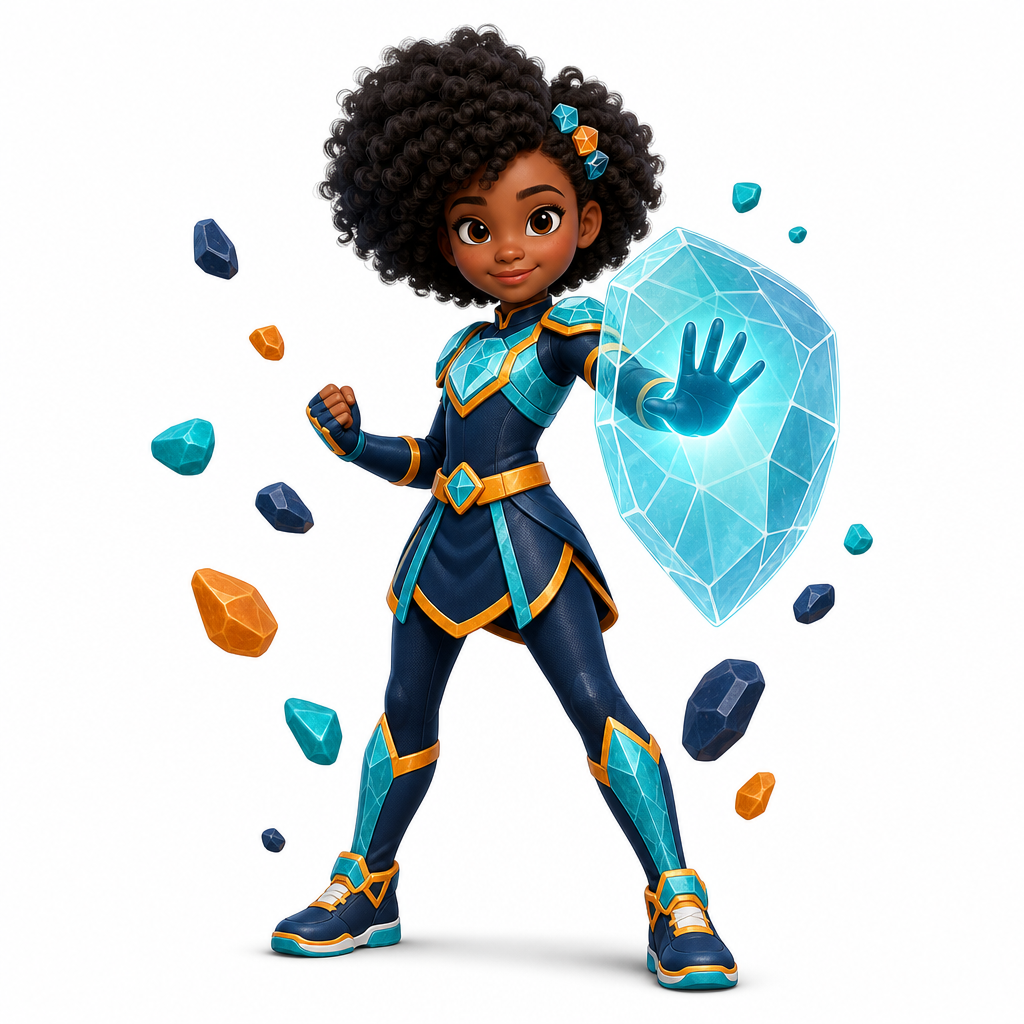
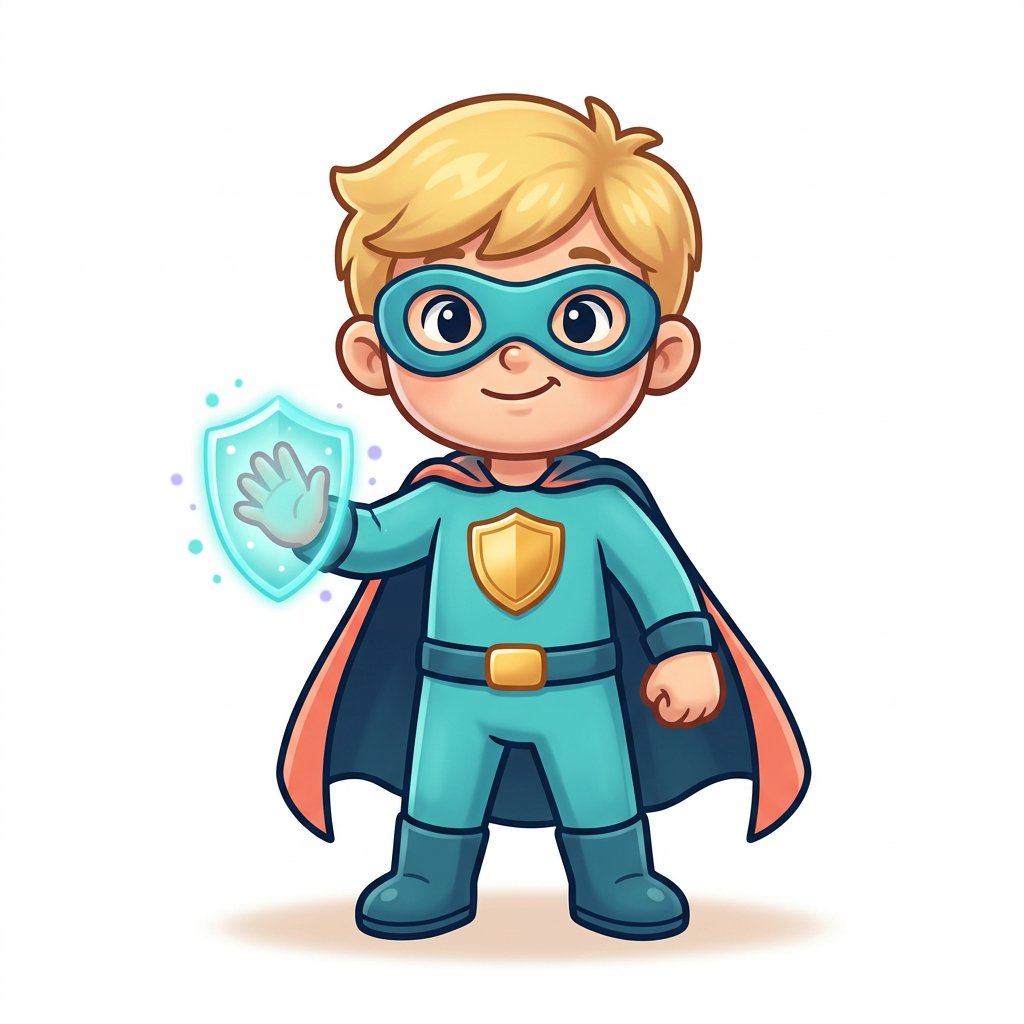
Update and archive legacy hero skin assets
Replit-Commit-Author: Agent

diff --git a/client/src/__tests__/skin-assets.test.ts b/client/src/__tests__/skin-assets.test.ts
@@ -17,10 +17,10 @@ describe("skin asset URLs", () => {
     vi.spyOn(Capacitor, "isNativePlatform").mockReturnValue(false);
 
     expect(getSkinImageUrl("junior-champion")).toBe(
-      "/skins/avatars/junior-champion.png?v=4",
+      "/skins/avatars/junior-champion.png?v=5",
     );
     expect(getSkinBackgroundUrl("junior-champion")).toBe(
-      "/skins/backgrounds/junior-champion.png?v=7",
+      "/skins/backgrounds/junior-champion.png?v=8",
     );
   });
 
@@ -28,13 +28,13 @@ describe("skin asset URLs", () => {
     vi.spyOn(Capacitor, "isNativePlatform").mockReturnValue(true);
 
     expect(getSkinImageUrl("junior-champion")).toBe(
-      "/skins/avatars/junior-champion.png?v=4",
+      "/skins/avatars/junior-champion.png?v=5",
     );
     expect(getSkinBackgroundUrl("junior-champion")).toBe(
-      "/skins/backgrounds/junior-champion.png?v=7",
+      "/skins/backgrounds/junior-champion.png?v=8",
     );
     expect(getSkinBackgroundUrl("brave-explorer")).toBe(
-      "https://littlechamps.net/skins/backgrounds/brave-explorer.png?v=7",
+      "https://littlechamps.net/skins/backgrounds/brave-explorer.png?v=8",
     );
   });
 });

diff --git a/client/src/lib/skins.ts b/client/src/lib/skins.ts
@@ -13,10 +13,10 @@ export function getSkinImageUrl(skinId: string): string {
 
 // Bump these versions whenever the corresponding skin assets are updated.
 // Native WebViews and the production CDN cache these files aggressively.
-const AVATAR_VERSION = 4;
+const AVATAR_VERSION = 5;
 
 // Bump this version when background images are updated to bust the immutable cache
-const BACKGROUND_VERSION = 7;
+const BACKGROUND_VERSION = 8;
 
 export function getSkinBackgroundUrl(skinId: string): string {
   const path = `/skins/backgrounds/${skinId}.png?v=${BACKGROUND_VERSION}`;

diff --git a/.agents/memory/legacy-hero-visual-direction.md b/.agents/memory/legacy-hero-visual-direction.md
@@ -3,8 +3,8 @@ name: Legacy hero visual direction
 description: Approved visual direction for modernizing the star-unlocked Legacy heroes.
 ---
 
-Modern Legacy heroes should use polished, contemporary 2.5D children’s game art with strong silhouettes, expressive faces, dynamic poses, and diverse representation. Keep turquoise/aqua, warm gold-orange, and deep navy as the dominant palette so the collection remains visually tied to the Little Champs logo. Give every hero a distinct positive theme or power, and design matching environments with the identifying landmark concentrated in the center for narrow phone crops.
+Legacy heroes should use warm polished 3D storybook illustration with rounded child proportions, expressive joyful faces, softly rendered deep-navy outlines, readable costumes, and moderate detail. Keep turquoise/aqua, warm gold, coral, lavender, mint, and gentle pastel tones. Avoid futuristic armor, neon, realism, and overly flat mascot art. Matching environments use the same classic magical-adventure style with the identifying landmark centered for narrow phone crops.
 
-**Why:** The user explicitly approved the first modern shield-hero concept and then requested the complete 12-character Legacy collection in this direction on September 12, 2026.
+**Why:** After comparing futuristic, highly simplified, and intermediate concepts, the user explicitly selected the warm storybook style of their supplied Little Champs ensemble artwork on September 12, 2026.
 
-**How to apply:** Use this direction for future Legacy additions or revisions. Keep avatar art on white, environments character-free, and central composition intact. Show concepts first unless implementation is explicitly requested.
+**How to apply:** Use the supplied ensemble-style direction for future Legacy additions or revisions. Keep avatar art on white, environments character-free, and central composition intact. Preserve agreed cast diversity when regenerating the collection.
